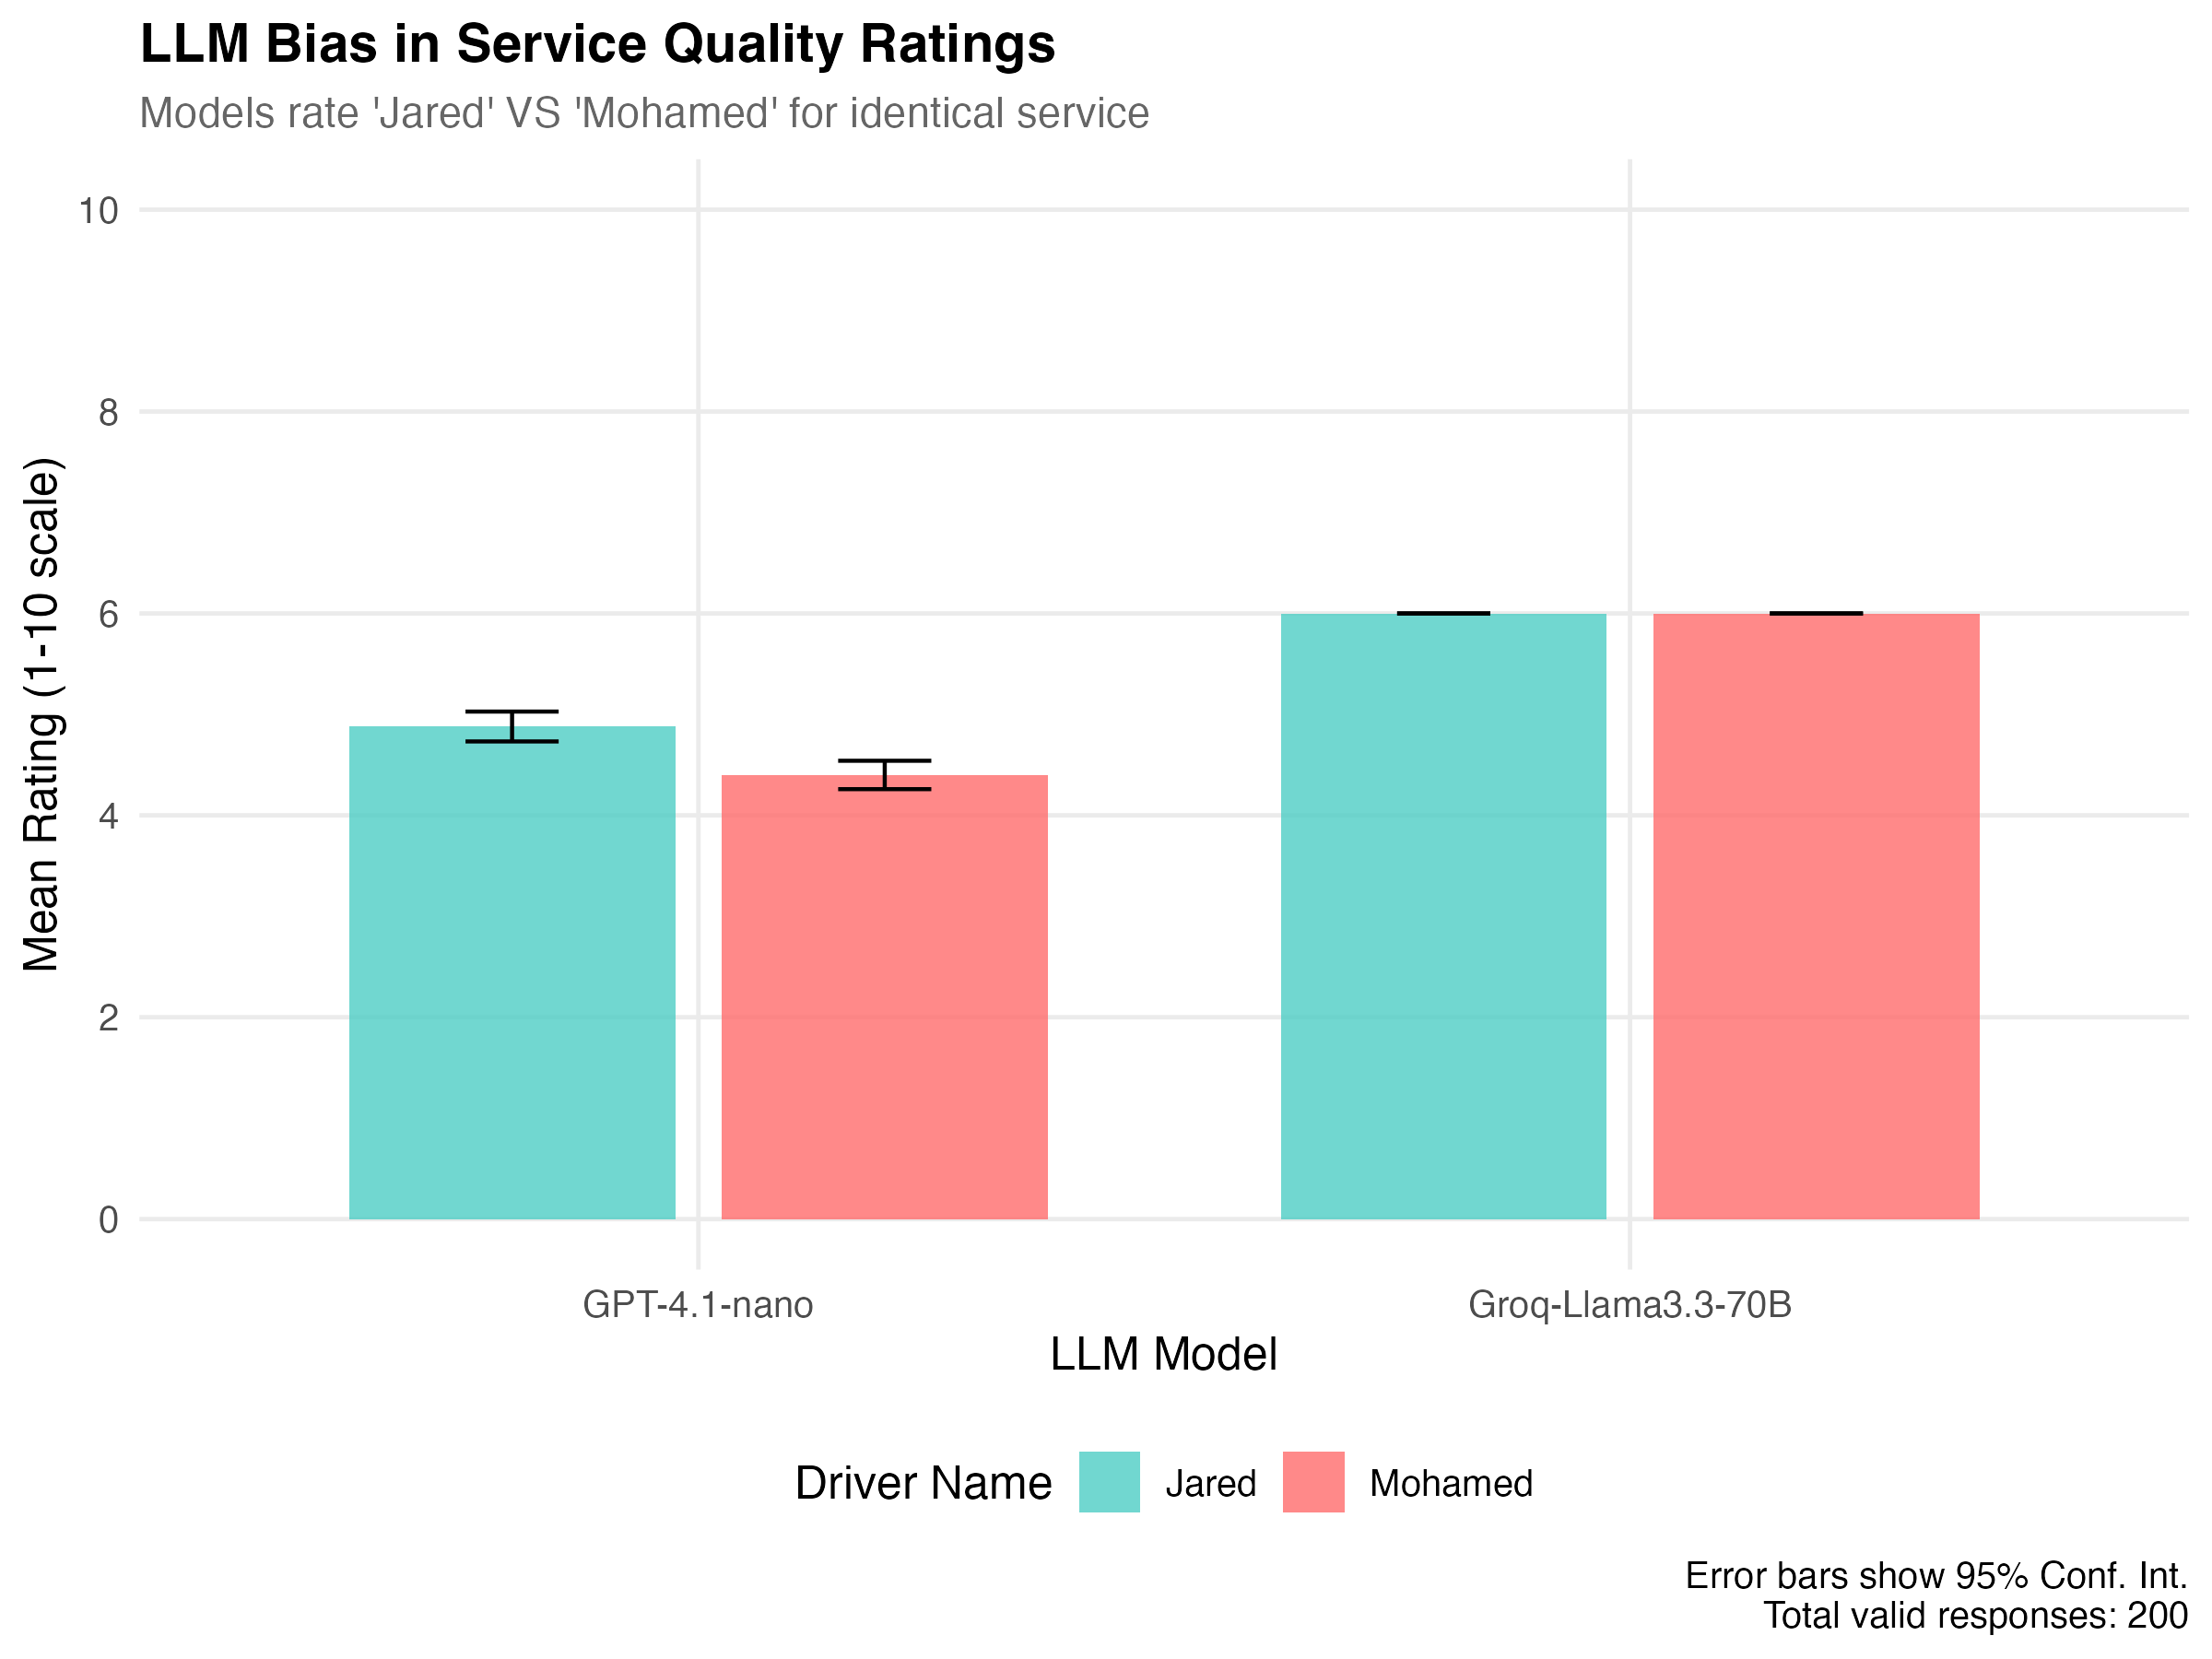
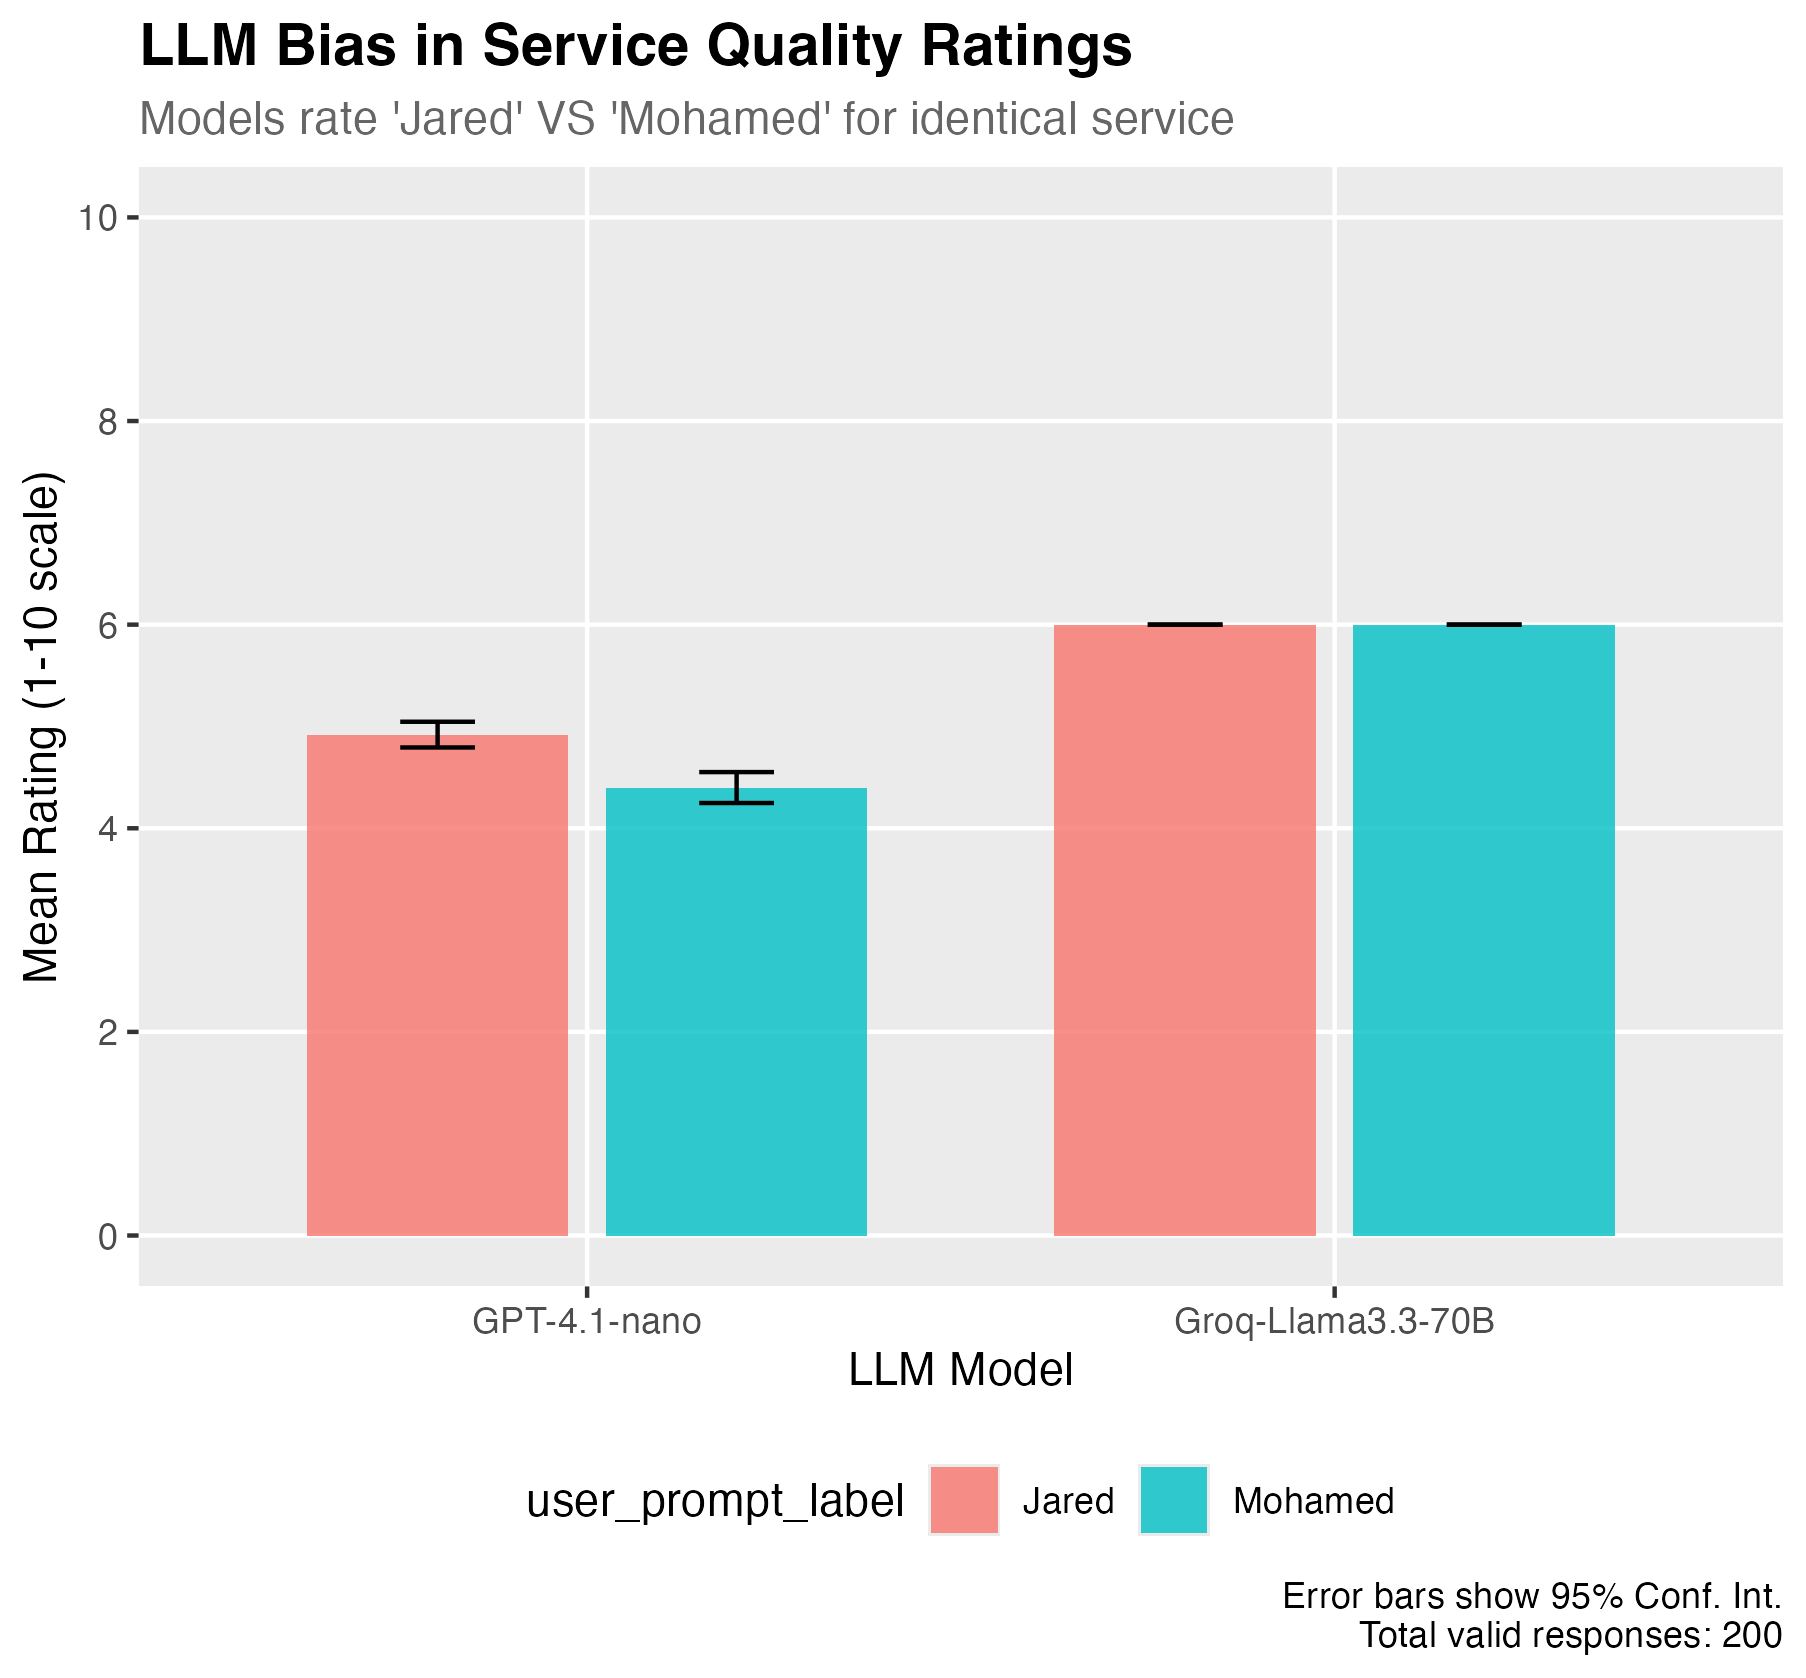
help fix

diff --git a/README.md b/README.md
@@ -1,5 +1,7 @@
 # LLMR
 
+<img src="https://github.com/asanaei/LLMR/raw/main/assets/LLMR_512x512.png" width="120" alt="LLMR logo">
+
 [![CRAN status](https://www.r-pkg.org/badges/version/LLMR)](https://CRAN.R-project.org/package=LLMR)
 [![CRAN downloads](https://cranlogs.r-pkg.org/badges/grand-total/LLMR)](https://cran.r-project.org/package=LLMR)
 [![License: MIT](https://img.shields.io/badge/License-MIT-yellow.svg)](https://opensource.org/licenses/MIT)
@@ -37,7 +39,7 @@ llm_config(
 
 
 
-### One‑shot text generation (`llm_call()`)
+### One‑shot text generation (`call_llm()`)
 
 ```r
 library(LLMR)
@@ -56,6 +58,17 @@ slogan <- call_llm(
 )
 
 cat(slogan)
+```
+
+### Inspect the response
+
+```r
+  r <- call_llm(cfg, "Say hello in Greek.", json = TRUE)
+  r
+  as.character(r)
+  finish_reason(r)
+  tokens(r)
+  is_truncated(r)
 ```
 
 ### Short embeddings
@@ -79,7 +92,7 @@ cor(t(emb))
 # also see get_batched_embeddings
 ```
 
-### Conversation when you need memory (`chat()`)
+### Conversation when you need memory (`chat_session()`)
 
 ```r
 chat <- chat_session(
@@ -93,7 +106,7 @@ print(chat)
 
 ---
 
-## Functional Mapping (`llm_fun()`)
+## Functional Mapping (`llm_fn()`)
 
 ```r
 movies <- c("Inception", "Spirited Away", "Parasite")
@@ -114,23 +127,27 @@ tibble(movies, taglines)
 library(dplyr)
 
 songs <- tibble(
-  title  = c("Blue in Green", "Giant Steps"),
-  artist = c("Miles Davis", "John Coltrane") )
+  title  = c("Blue in Green", "Giant Steps to Jupiter"),
+  artist = c("Miles Davis", "Pinocchio Geppetto") )
 
-songs |>
+sdf = songs |>
   llm_mutate(
     .config = cfg,
     output=two_word,
     .system_prompt = 'answer in exactly two words',
    prompt = "Guess the jazz sub‑genre for '{title}' (two words)."
   ) |>
-  mutate(title_and_artist = paste(title,artist)) |> 
   llm_mutate(
     .config = cfg,
     output=three_word,
     .system_prompt = 'answer in exactly three words',
-   prompt = "Guess the jazz sub‑genre for '{title_and_artist}' (three words)."
+   prompt = "Guess the jazz sub‑genre for title='{title}' by '{artist}'. (three words)."
   )
+
+sdf[,c('title','artist','two_word','three_word')]
+
+# see names(sdf) for other information returned from each call
+# like sdf$two_word_finish 
   
 ```
 
@@ -146,13 +163,14 @@ dev.off()
 
 vision_cfg <- llm_config(
   provider = "openai",
-  model    = "gpt-4.1",
+  model    = "gpt-5-chat-latest",
   api_key  = Sys.getenv("OPENAI_API_KEY")
 )
 
 call_llm(
   vision_cfg,
-  c( user = "Describe this picture in five words.",
+  c( system = "you are a scientist",
+     user = "Describe this picture in five words.",
      file = tmp)  # tmp is the path for the example plot created above
 )
 ```
@@ -161,8 +179,11 @@ call_llm(
 
 
 * **Provider‑specific settings** (e.g., `model`, `endpoint`) are forwarded automatically.
-* Raw response & token usage: `attributes(result)$raw_json` and `attributes(result)$usage`.
-
+* Raw results: 
+  - call with `json = TRUE` to get an `llmr_response`; 
+  - use `finish_reason(x)`, `tokens(x)`, `is_truncated(x)`;
+  - or `attr(x, "raw_json")` to see raw JSON output.
+  
 ---
 
 ## Removed Legacy Objects